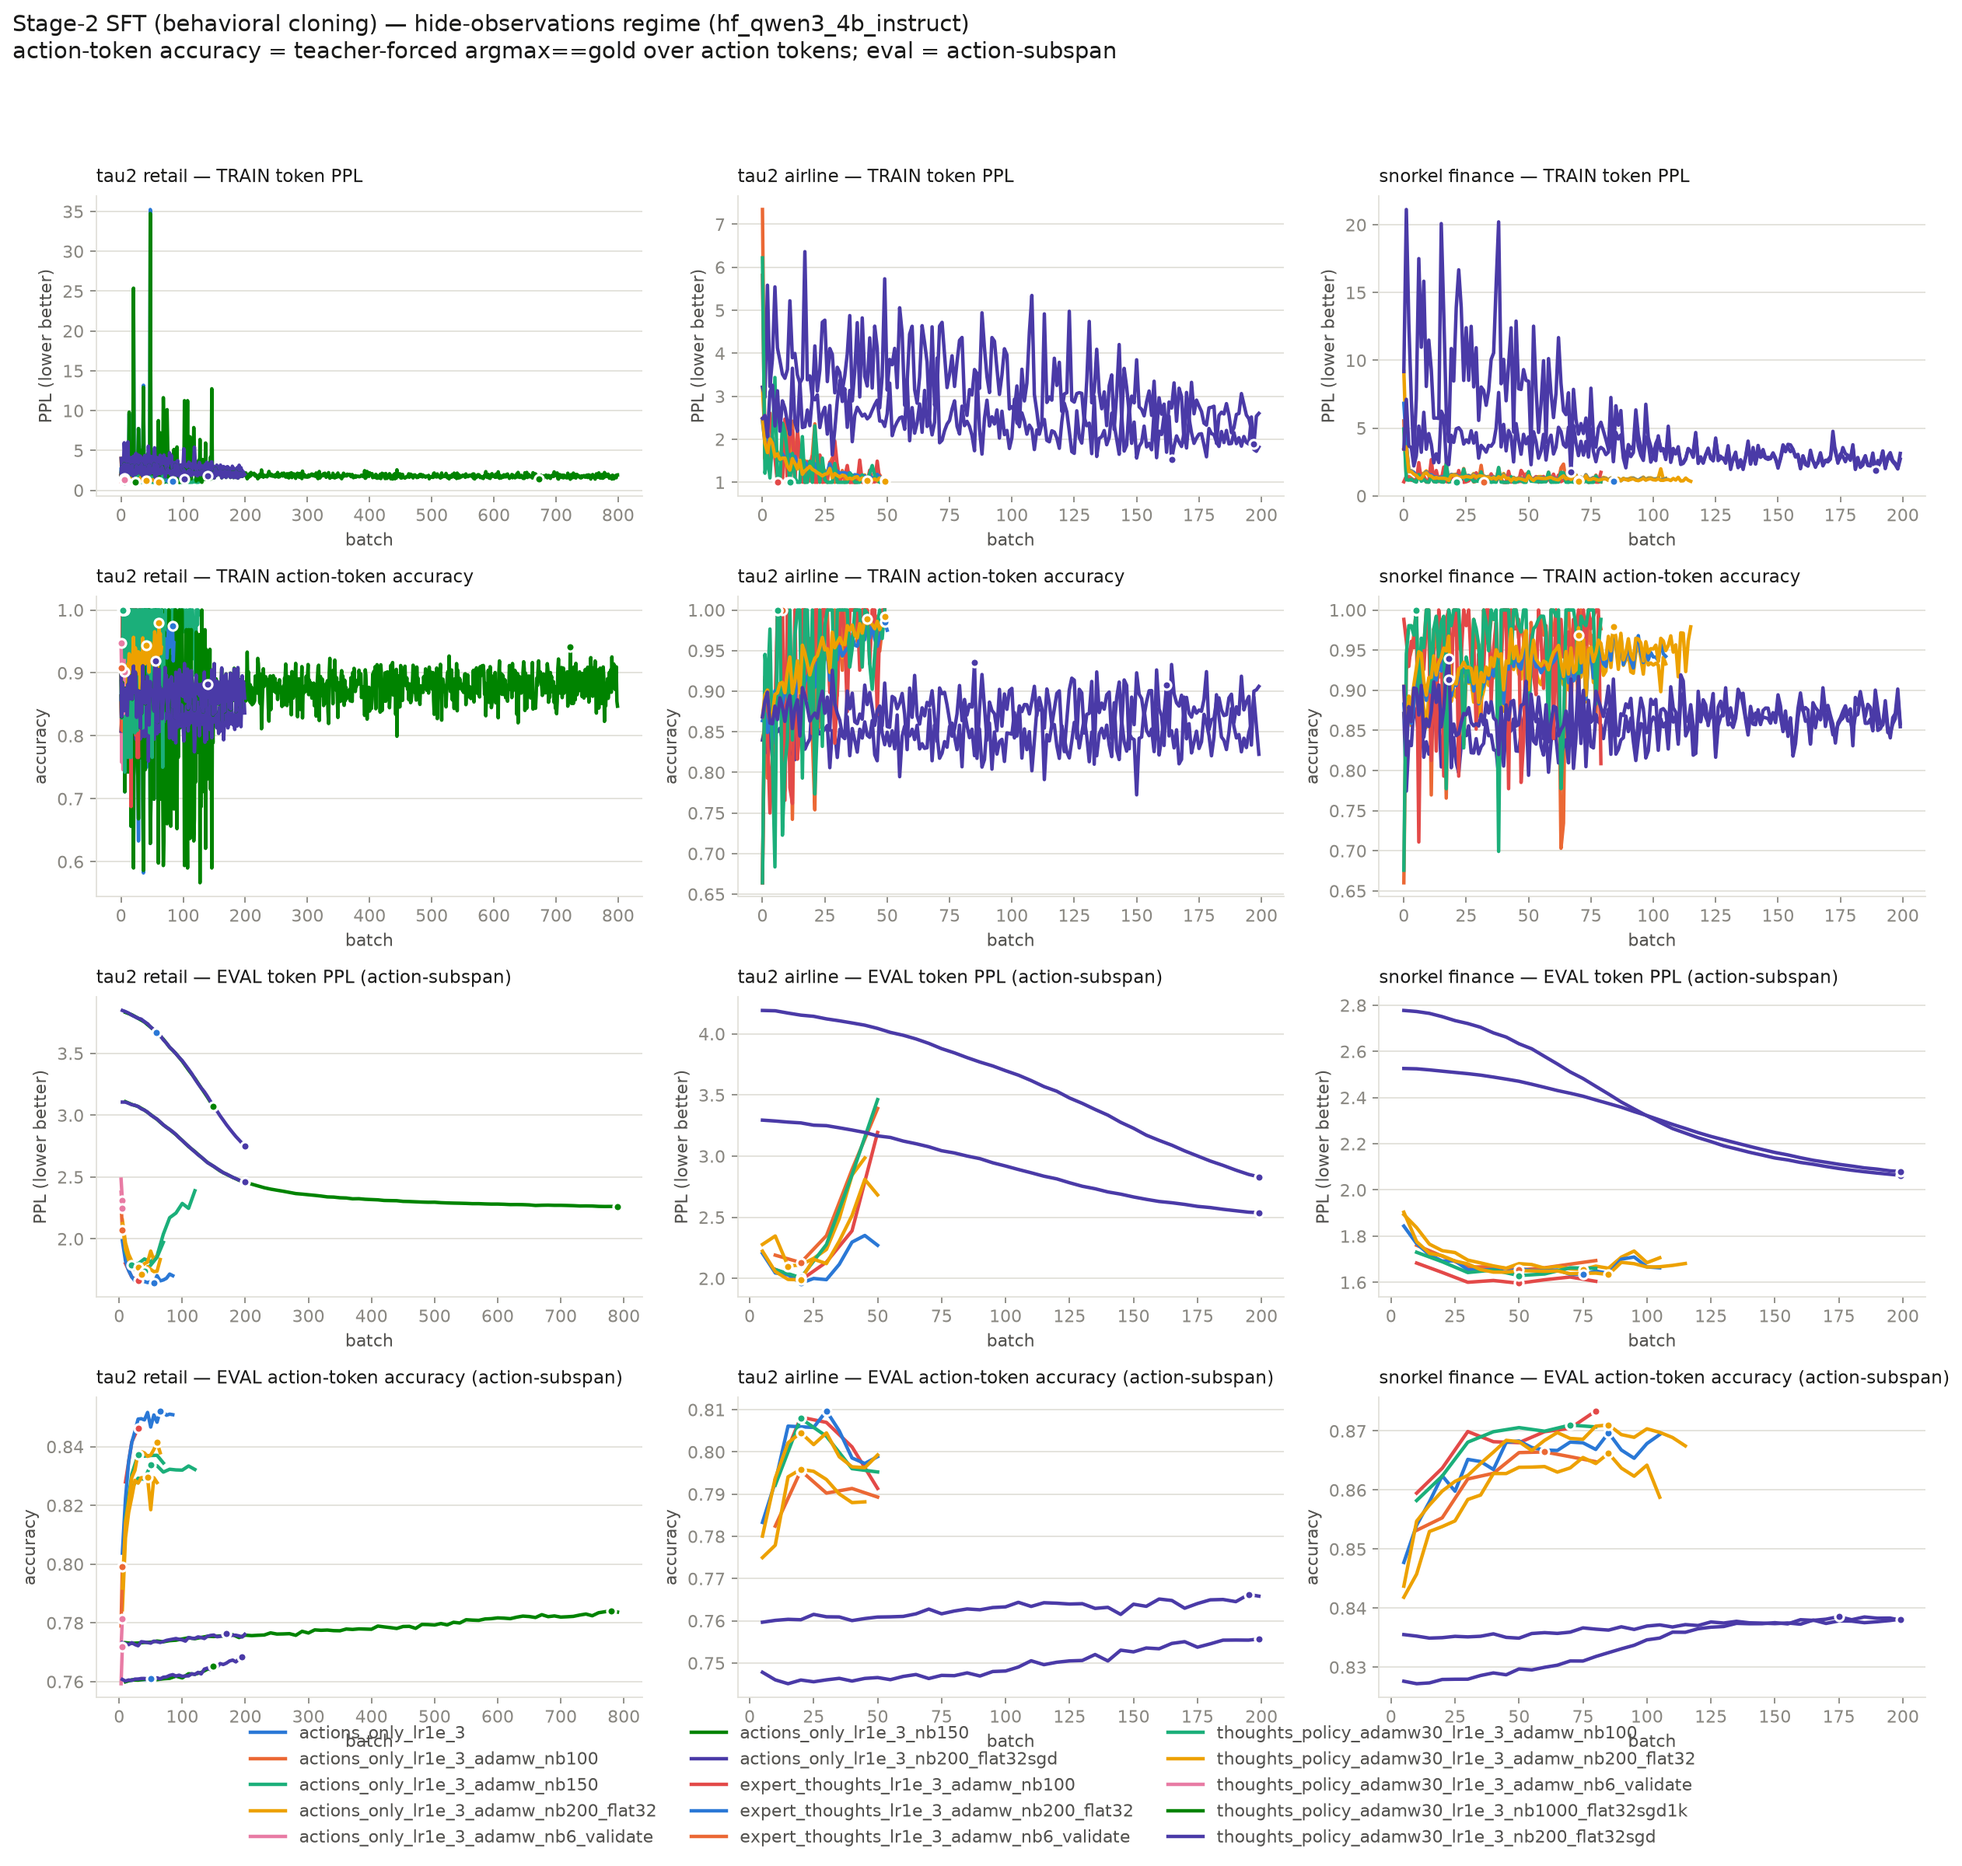
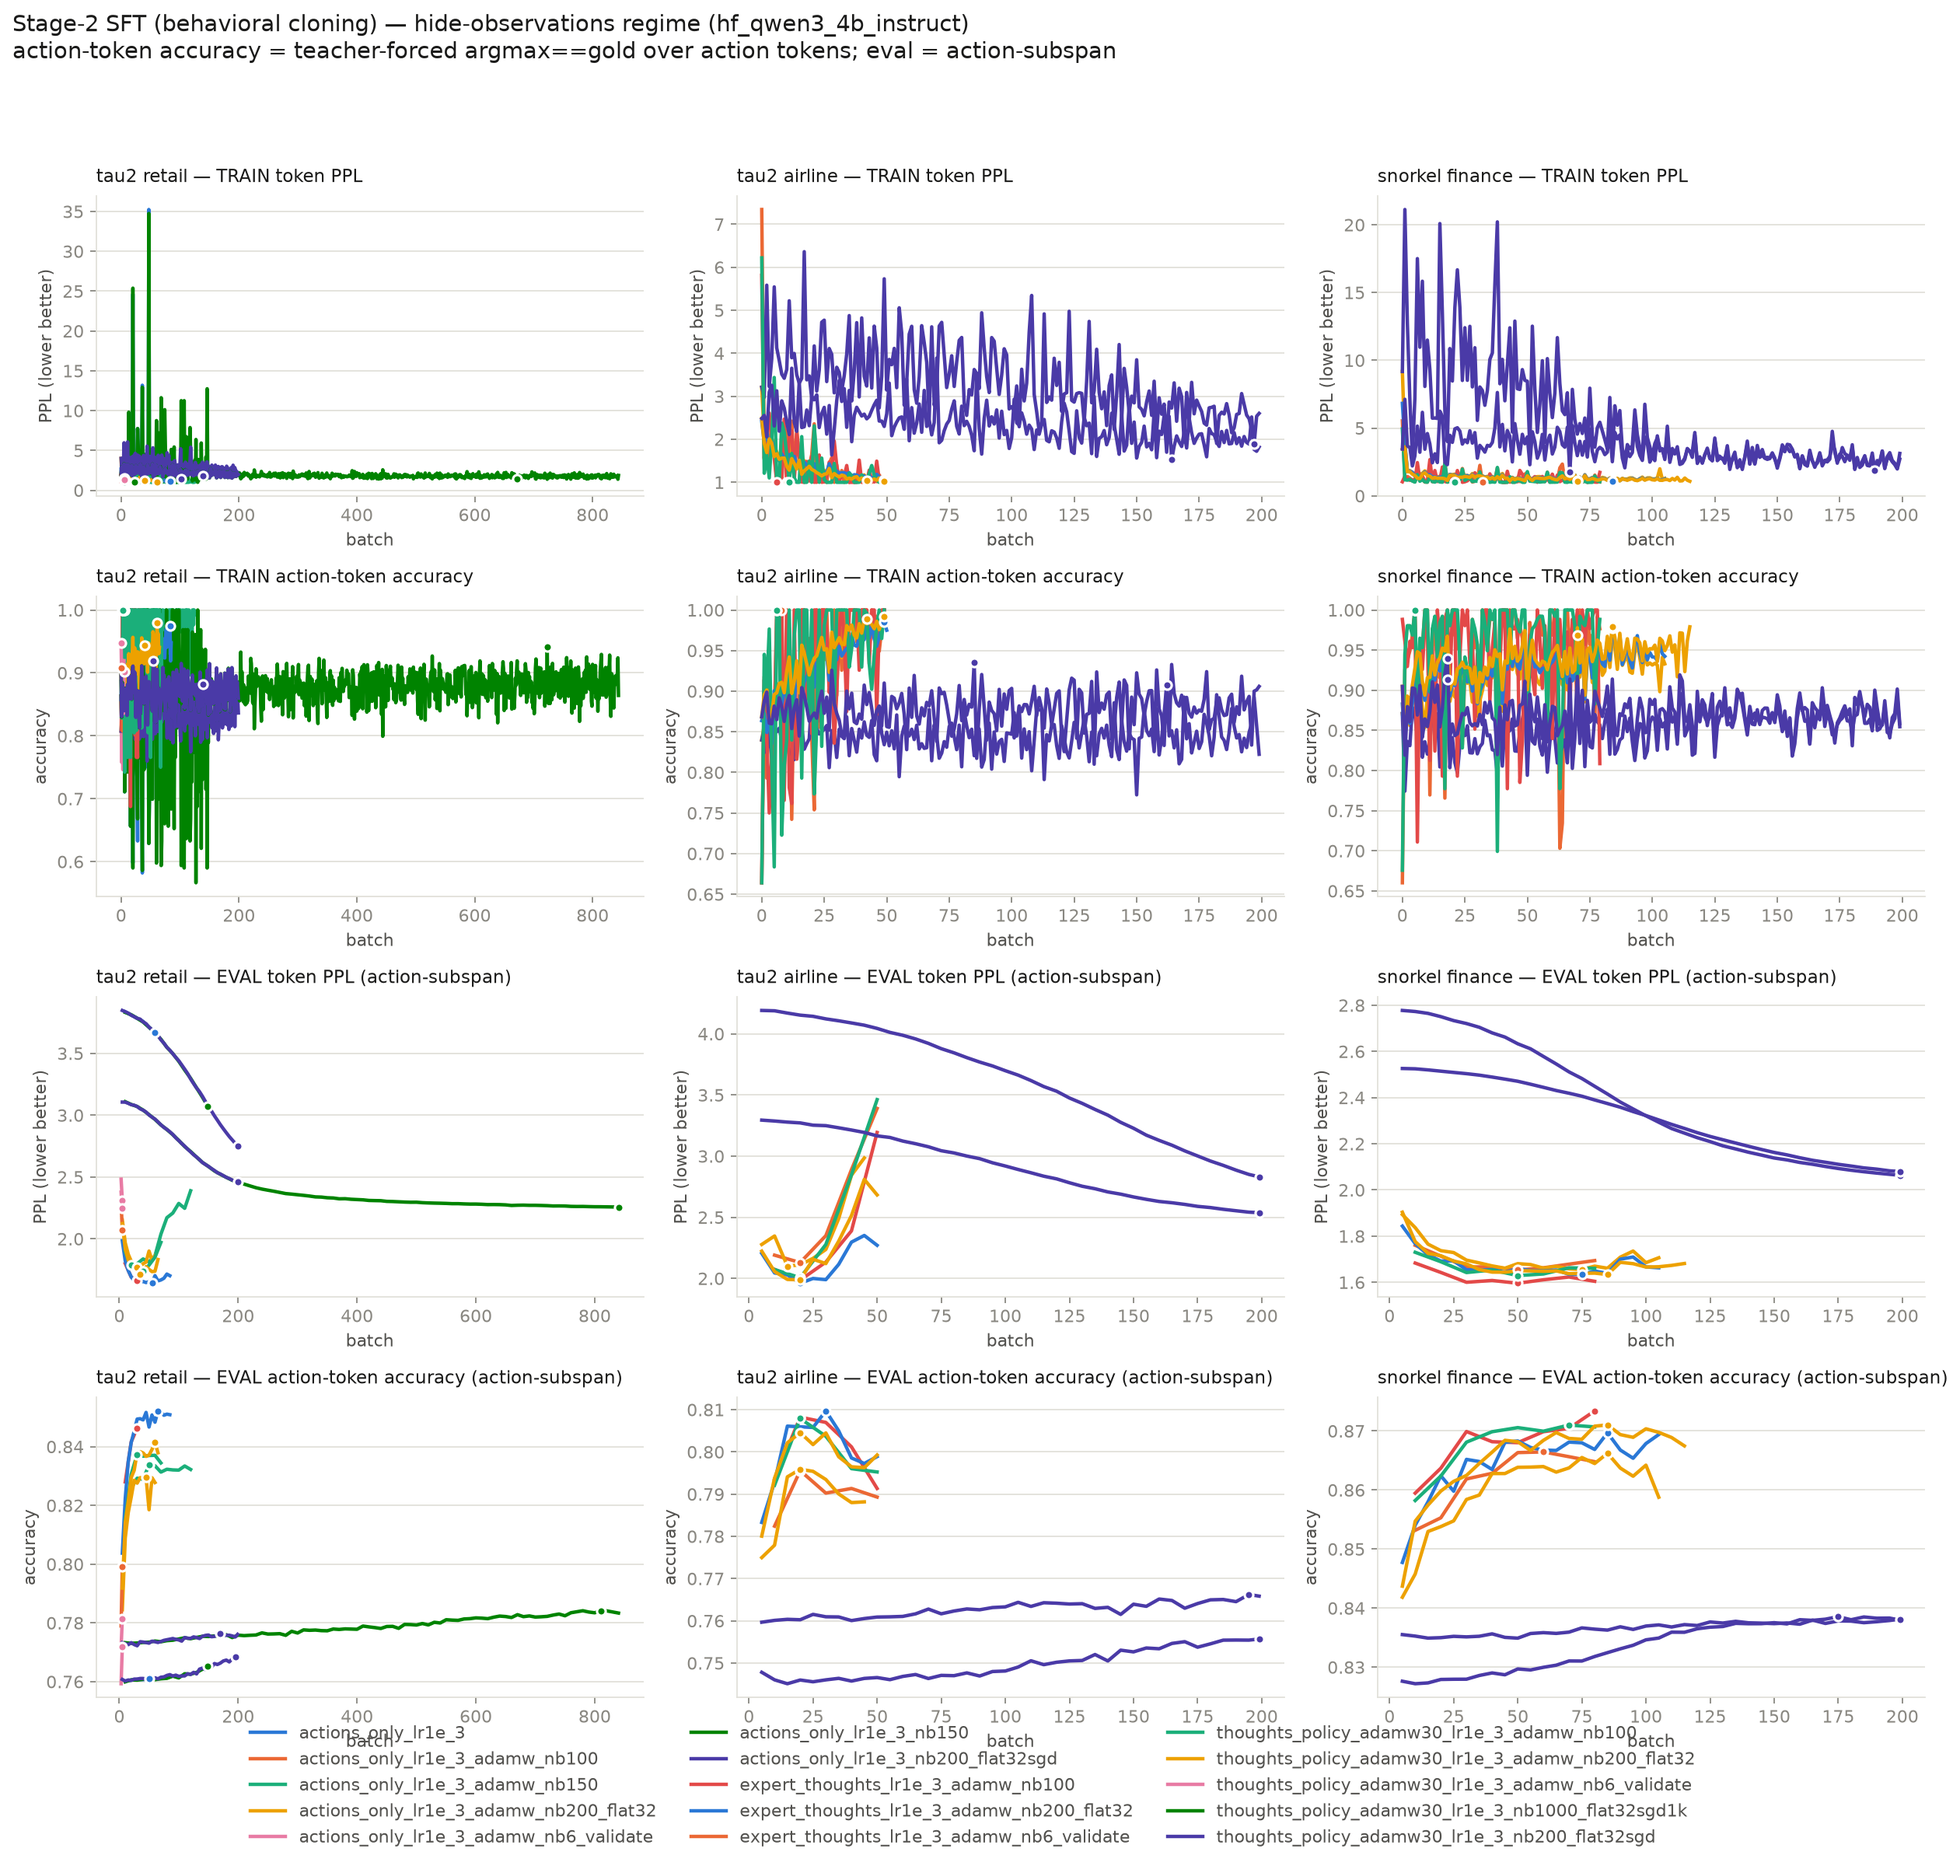
auto: SFT LR sweep results snapshot

diff --git a/notes/cc-5.0-sft-lr-investigation.md b/notes/cc-5.0-sft-lr-investigation.md
@@ -376,7 +376,7 @@ retail/expert_thoughts_lr1e_3_adamw_nb6_validate     hide    5     2.2879 ->   2
 retail/thoughts_policy_adamw30_lr1e_3_adamw_nb100    hide   70     1.8959 ->   1.9718  -4.00%  0.8345        1.3828  <running>
 retail/thoughts_policy_adamw30_lr1e_3_adamw_nb200_flat32 hide   65     2.1230 ->   1.8328  13.67%  0.8379        1.2222  <running>
 retail/thoughts_policy_adamw30_lr1e_3_adamw_nb6_validate hide    5     2.3775 ->   2.2449   5.57%  0.7814        1.3506
-retail/thoughts_policy_adamw30_lr1e_3_nb1000_flat32sgd1k hide  799     3.1089 ->   2.2606  27.29%  0.7837        1.9312  <running>
+retail/thoughts_policy_adamw30_lr1e_3_nb1000_flat32sgd1k hide  844     3.1089 ->   2.2565  27.42%  0.7833        1.8684  <running>
 retail/thoughts_policy_adamw30_lr1e_3_nb200_flat32sgd hide  199     3.1058 ->   2.4625  20.71%  0.7761        1.9910
 airline/actions_only_lr1e_3_adamw_nb100              hide   50     2.1901 ->   3.3899 -54.78%  0.7893        1.0000  <running>
 airline/actions_only_lr1e_3_adamw_nb200_flat32       hide   45     2.2776 ->   2.9850 -31.06%  0.7882        1.0679  <running>
@@ -397,7 +397,7 @@ snorkel_finance_split/thoughts_policy_adamw30_lr1e_3_nb200_flat32sgd hide  199  
 
 11/31 arms complete   (Δ% = held-out action-subspan PPL improvement, higher is better)
 ```
-_last refreshed: 2026-09-03 07:00_
+_last refreshed: 2026-09-03 07:20_
 <!--/RESULTS-->
 
 ## Infrastructure

diff --git a/notes/cc-3.0-retail_sft_results.md b/notes/cc-3.0-retail_sft_results.md
@@ -45,7 +45,7 @@ for wordiness rather than for mispredicting the action, which inverts the rankin
 | thoughts_policy_adamw30_lr1e_3_adamw_nb100 | hide | 1.7358 | 0.8368 | 40 | 1.9884 | 0.7917 | 20 | 0.3668 |
 | thoughts_policy_adamw30_lr1e_3_adamw_nb200_flat32 | hide | 1.7150 | 0.8383 | 35 | — | — | — | 0.2997 |
 | thoughts_policy_adamw30_lr1e_3_adamw_nb6_validate | hide | 2.2449 | 0.7814 | 5 | — | — | — | 0.6407 |
-| thoughts_policy_adamw30_lr1e_3_nb1000_flat32sgd1k | hide | 2.2606 | 0.7837 | 790 | — | — | — | 0.6964 |
+| thoughts_policy_adamw30_lr1e_3_nb1000_flat32sgd1k | hide | 2.2565 | 0.7833 | 840 | — | — | — | 0.7522 |
 | thoughts_policy_adamw30_lr1e_3_nb200_flat32sgd | hide | 2.4625 | 0.7761 | 199 | — | — | — | 0.8002 |
 | thoughts_policy_adamw30_lr1e_4_adamw_nb200_flat32 | hide | 1.7313 | 0.8393 | 140 | — | — | — | 0.2530 |
 | thoughts_policy_adamw30_lr3e_3_nb200_flat32sgd | hide | 2.2822 | 0.7809 | 199 | — | — | — | 0.6983 |
